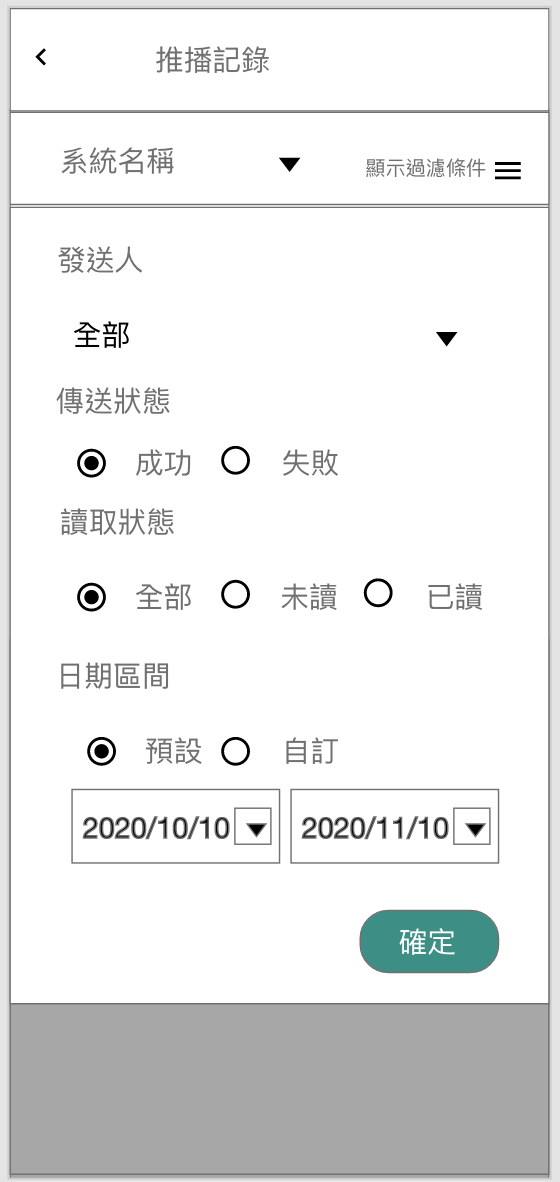
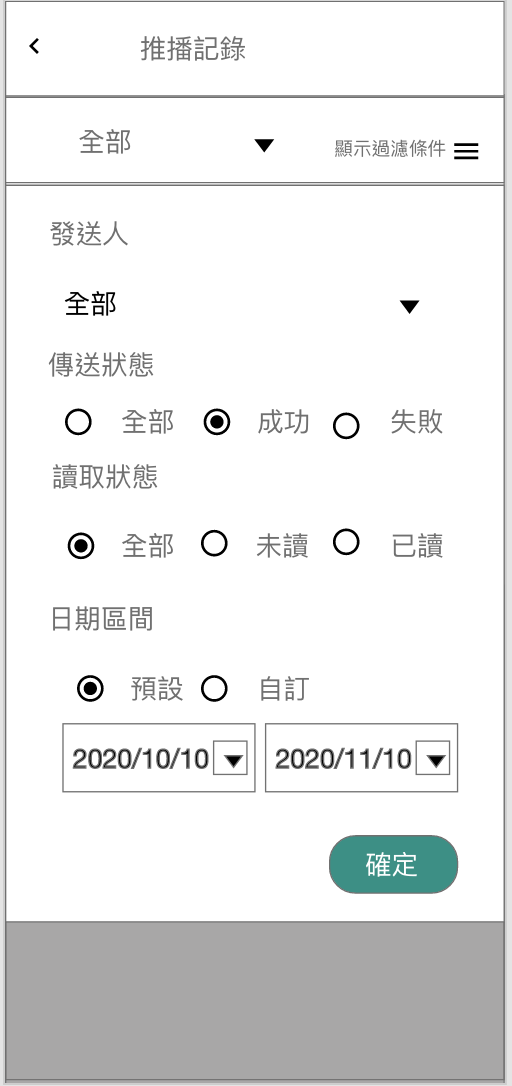
修改推播記錄功能顯示名稱

diff --git a/8.10.0/UPDATE/ITEM_2/MAE/notification_record.md b/8.10.0/UPDATE/ITEM_2/MAE/notification_record.md
@@ -10,48 +10,54 @@
 #### [<div id="notification_log">推播通知.推播記錄<path>(首頁)</path></div>](README.md)
 * 規格說明
   * 列入系統功能
-  * 畫面顯示(`表單畫面 推播記錄`)
+  * 畫面顯示[(表單畫面 推播記錄)](#image_record)
     * 上方工具列
       * 功能名稱
-      * 全選未讀
+      * 全選
     * 過濾條件
       * 顯示目前選擇的系統過濾條件
       * 進階過濾條件
     * 訊息清單
-  * 讀取狀態(`表單畫面 推播記錄`)
+  * 讀取狀態[(表單畫面 推播記錄)](#image_record)
     * 已讀：淺色顯示
     * 未讀：深色顯示
-  * 傳送狀態(`表單畫面 推播記錄`)
-    * 失敗：紅色透通顯示
+  * 傳送狀態[(表單畫面 推播記錄)](#image_record)
+    * 失敗
+      * 已讀：淺紅色透通顯示
+      * 未讀：深紅色透通顯示
   * 功能
     * 上方工具列
-      * 全選未讀(`表單畫面 推播記錄`)
+      * 全選[(表單畫面 推播記錄)](#image_record)
         * 勾選全部未讀訊息並進入多選模式
         * 過濾條件處顯示全部已讀按鈕
           * 點擊後修改已勾選訊息的狀態為已讀
-        * 全選未讀改為取消全選(`表單畫面 選取模式`)
-    * <p id="filter">過濾條件<font style="color:rgb(233,130,78);font-size:14px">( 表單畫面 過濾條件 )</font></p>
-
+        * 全選未讀改為取消全選[(表單畫面 選取模式)](#image_selected)
+    * 過濾條件[( 表單畫面 過濾條件 )](#image_filter)
       * 顯示/收起 可設定的過濾條件
-        * 系統：全部/系統清單
-        * 發送人：全部/發送人清單
-        * 傳送狀態：成功/失敗
-        * 讀取狀態：全部/已讀/未讀
+        * 系統：全部(預設)/系統清單
+        * 發送人：全部(預設)/發送人清單
+        * 傳送狀態：全部(預設)/成功/失敗
+        * 讀取狀態：全部/已讀(預設)/未讀
         * 日期區間：預設(不限制)/自訂
       * 確認
         * 依當下所選的過濾條件顯示訊息記錄
+    * [動作](#workflow)
+      * 點擊
+        * 查看訊息內文
+      * 長按(未讀訊息)
+        * 勾選未讀訊息並進入多選模式
 * 表單畫面
-  * 推播記錄
+  * <p id="image_record">推播記錄</p>
   
     ![Notification](./image/notification.png)
 
-  * 選取模式
+  * <p id="image_selected">選取模式</p>
   
     ![Notification Filter](./image/notification_filter_selected.png)
-  * 過濾條件<path>推播記錄</path>
+  * <p id="image_filter">過濾條件</p>
   
     ![Notification Filter](./image/notification_filter.png)
 
-* 作業流程
+* <p id="workflow">作業流程</p>
 
   ![Notification Record](./image/workflow_record.png)

diff --git a/8.10.0/UPDATE/ITEM_2/MAE/notification_system.md b/8.10.0/UPDATE/ITEM_2/MAE/notification_system.md
@@ -45,7 +45,7 @@
         * 展開約611個字以上
       * 實際長度依裝置不同會有不同字數
   * 點擊
-    * 點擊系統通知會呼叫MAE APP，APP啟動後會顯示通知內容及連結類型，點擊連結會依連結類型來處理相對應事件。
+    * 點擊系統通知會呼叫MAE APP，APP啟動後會顯[推播通知訊息](notification_message.md)，點擊連結會開啟相對應連結。
 
 * <p id="workflow">作業流程</>
 
